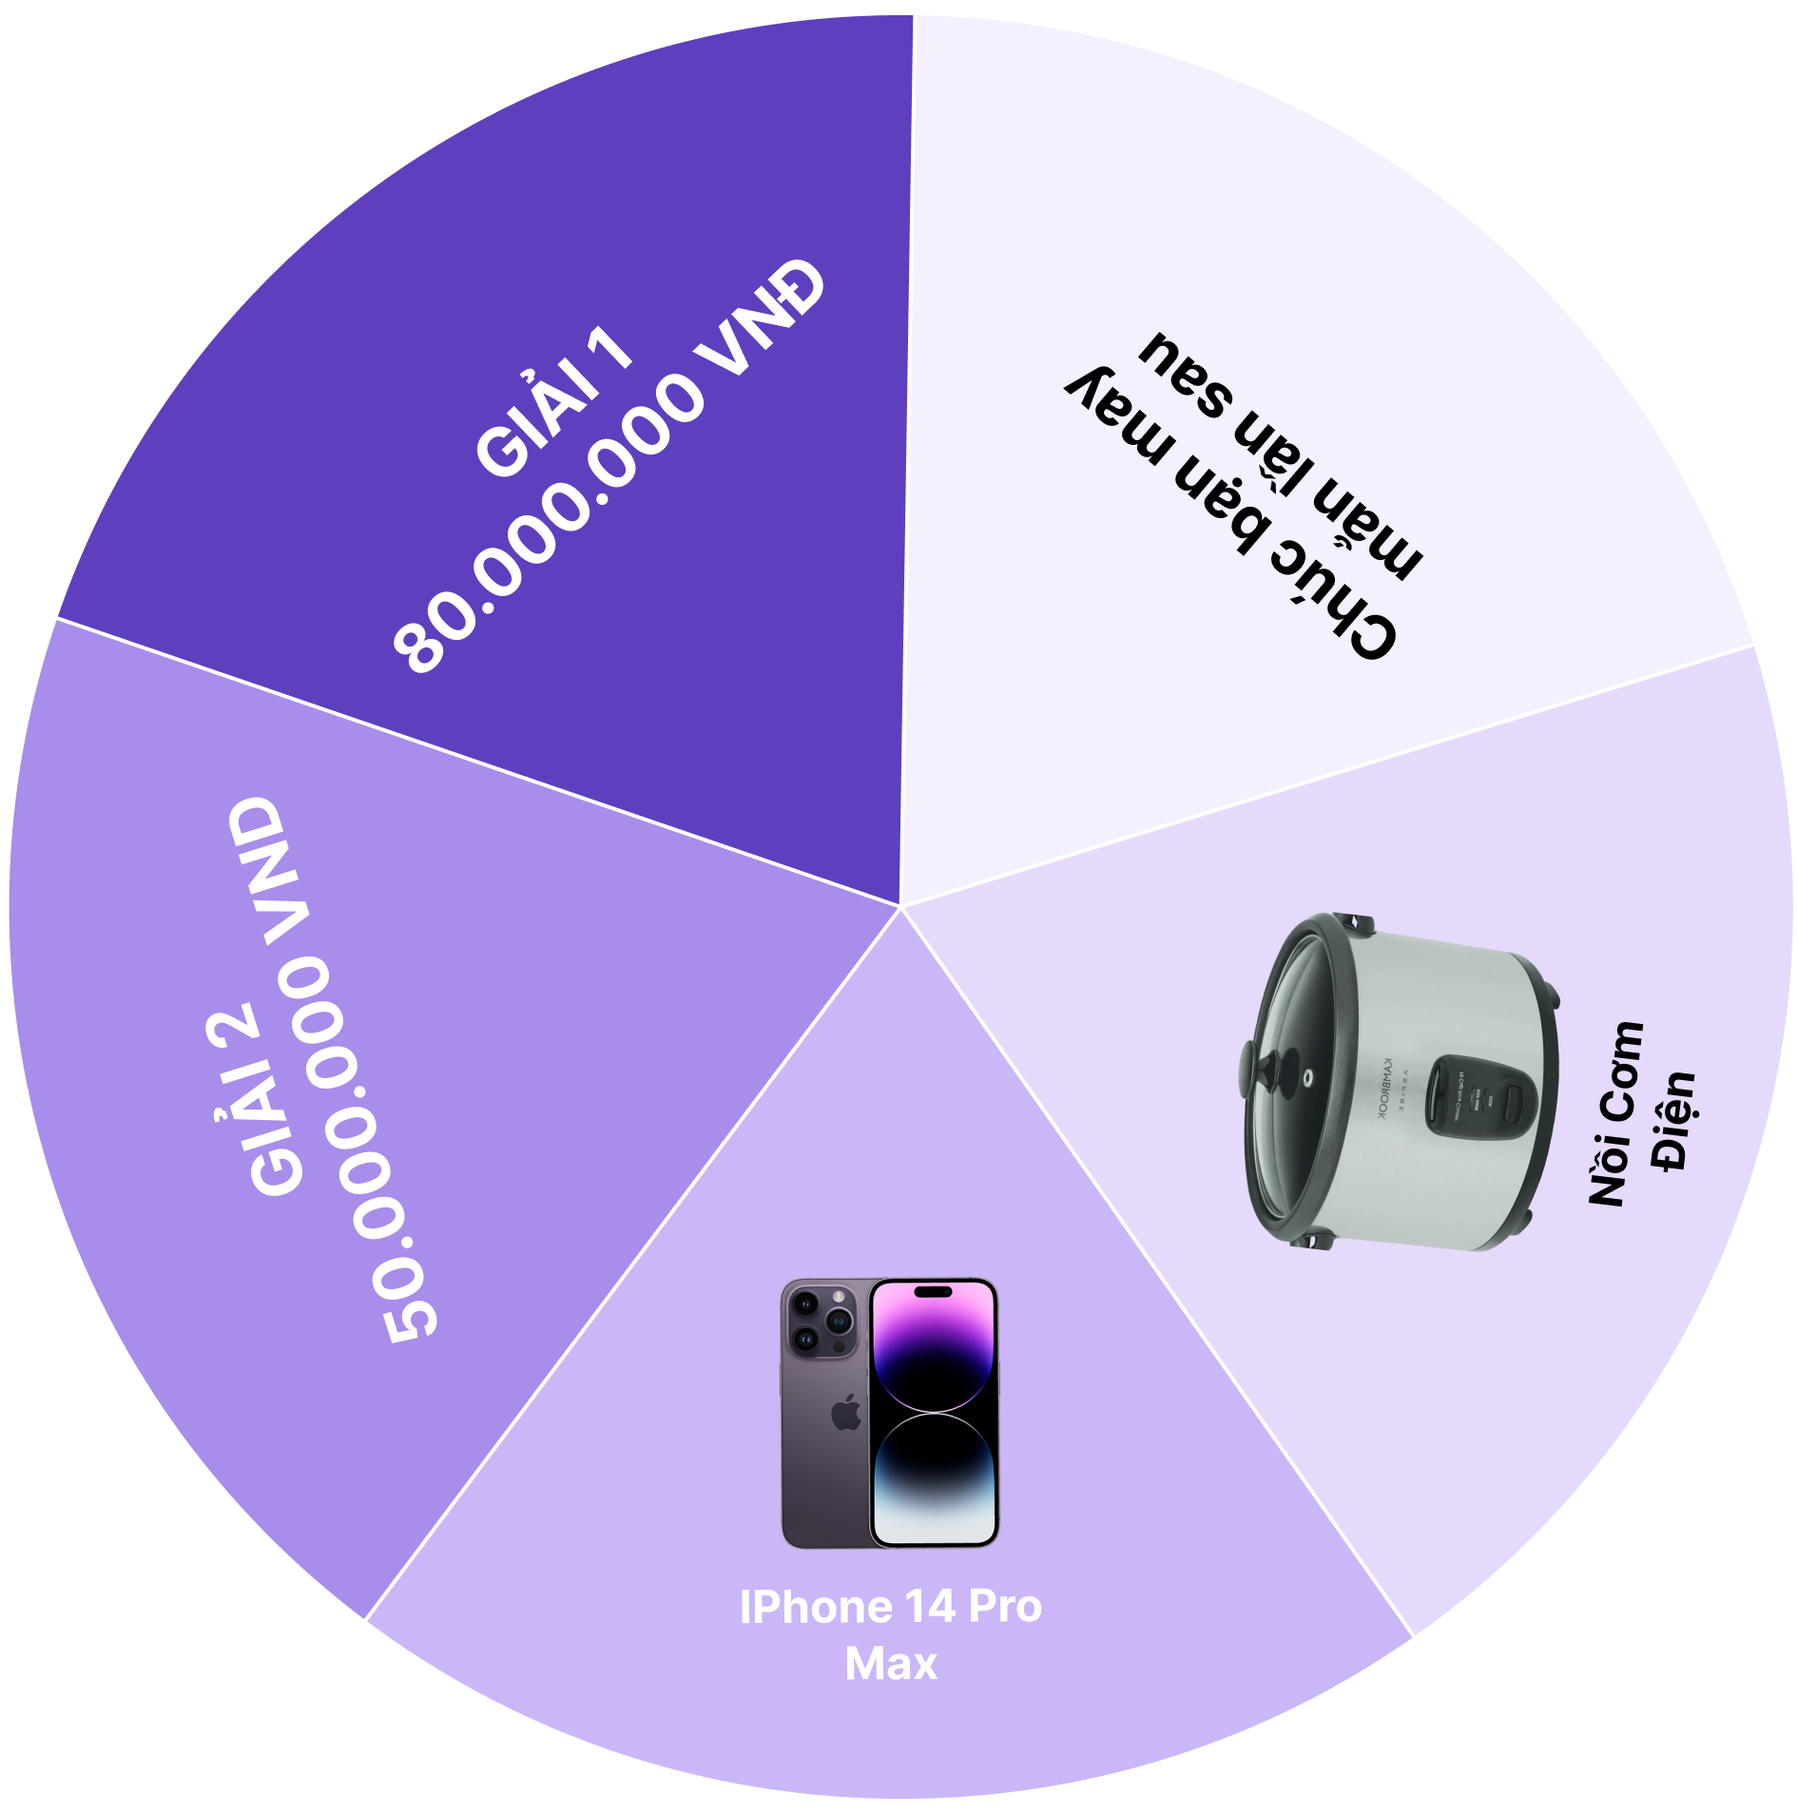
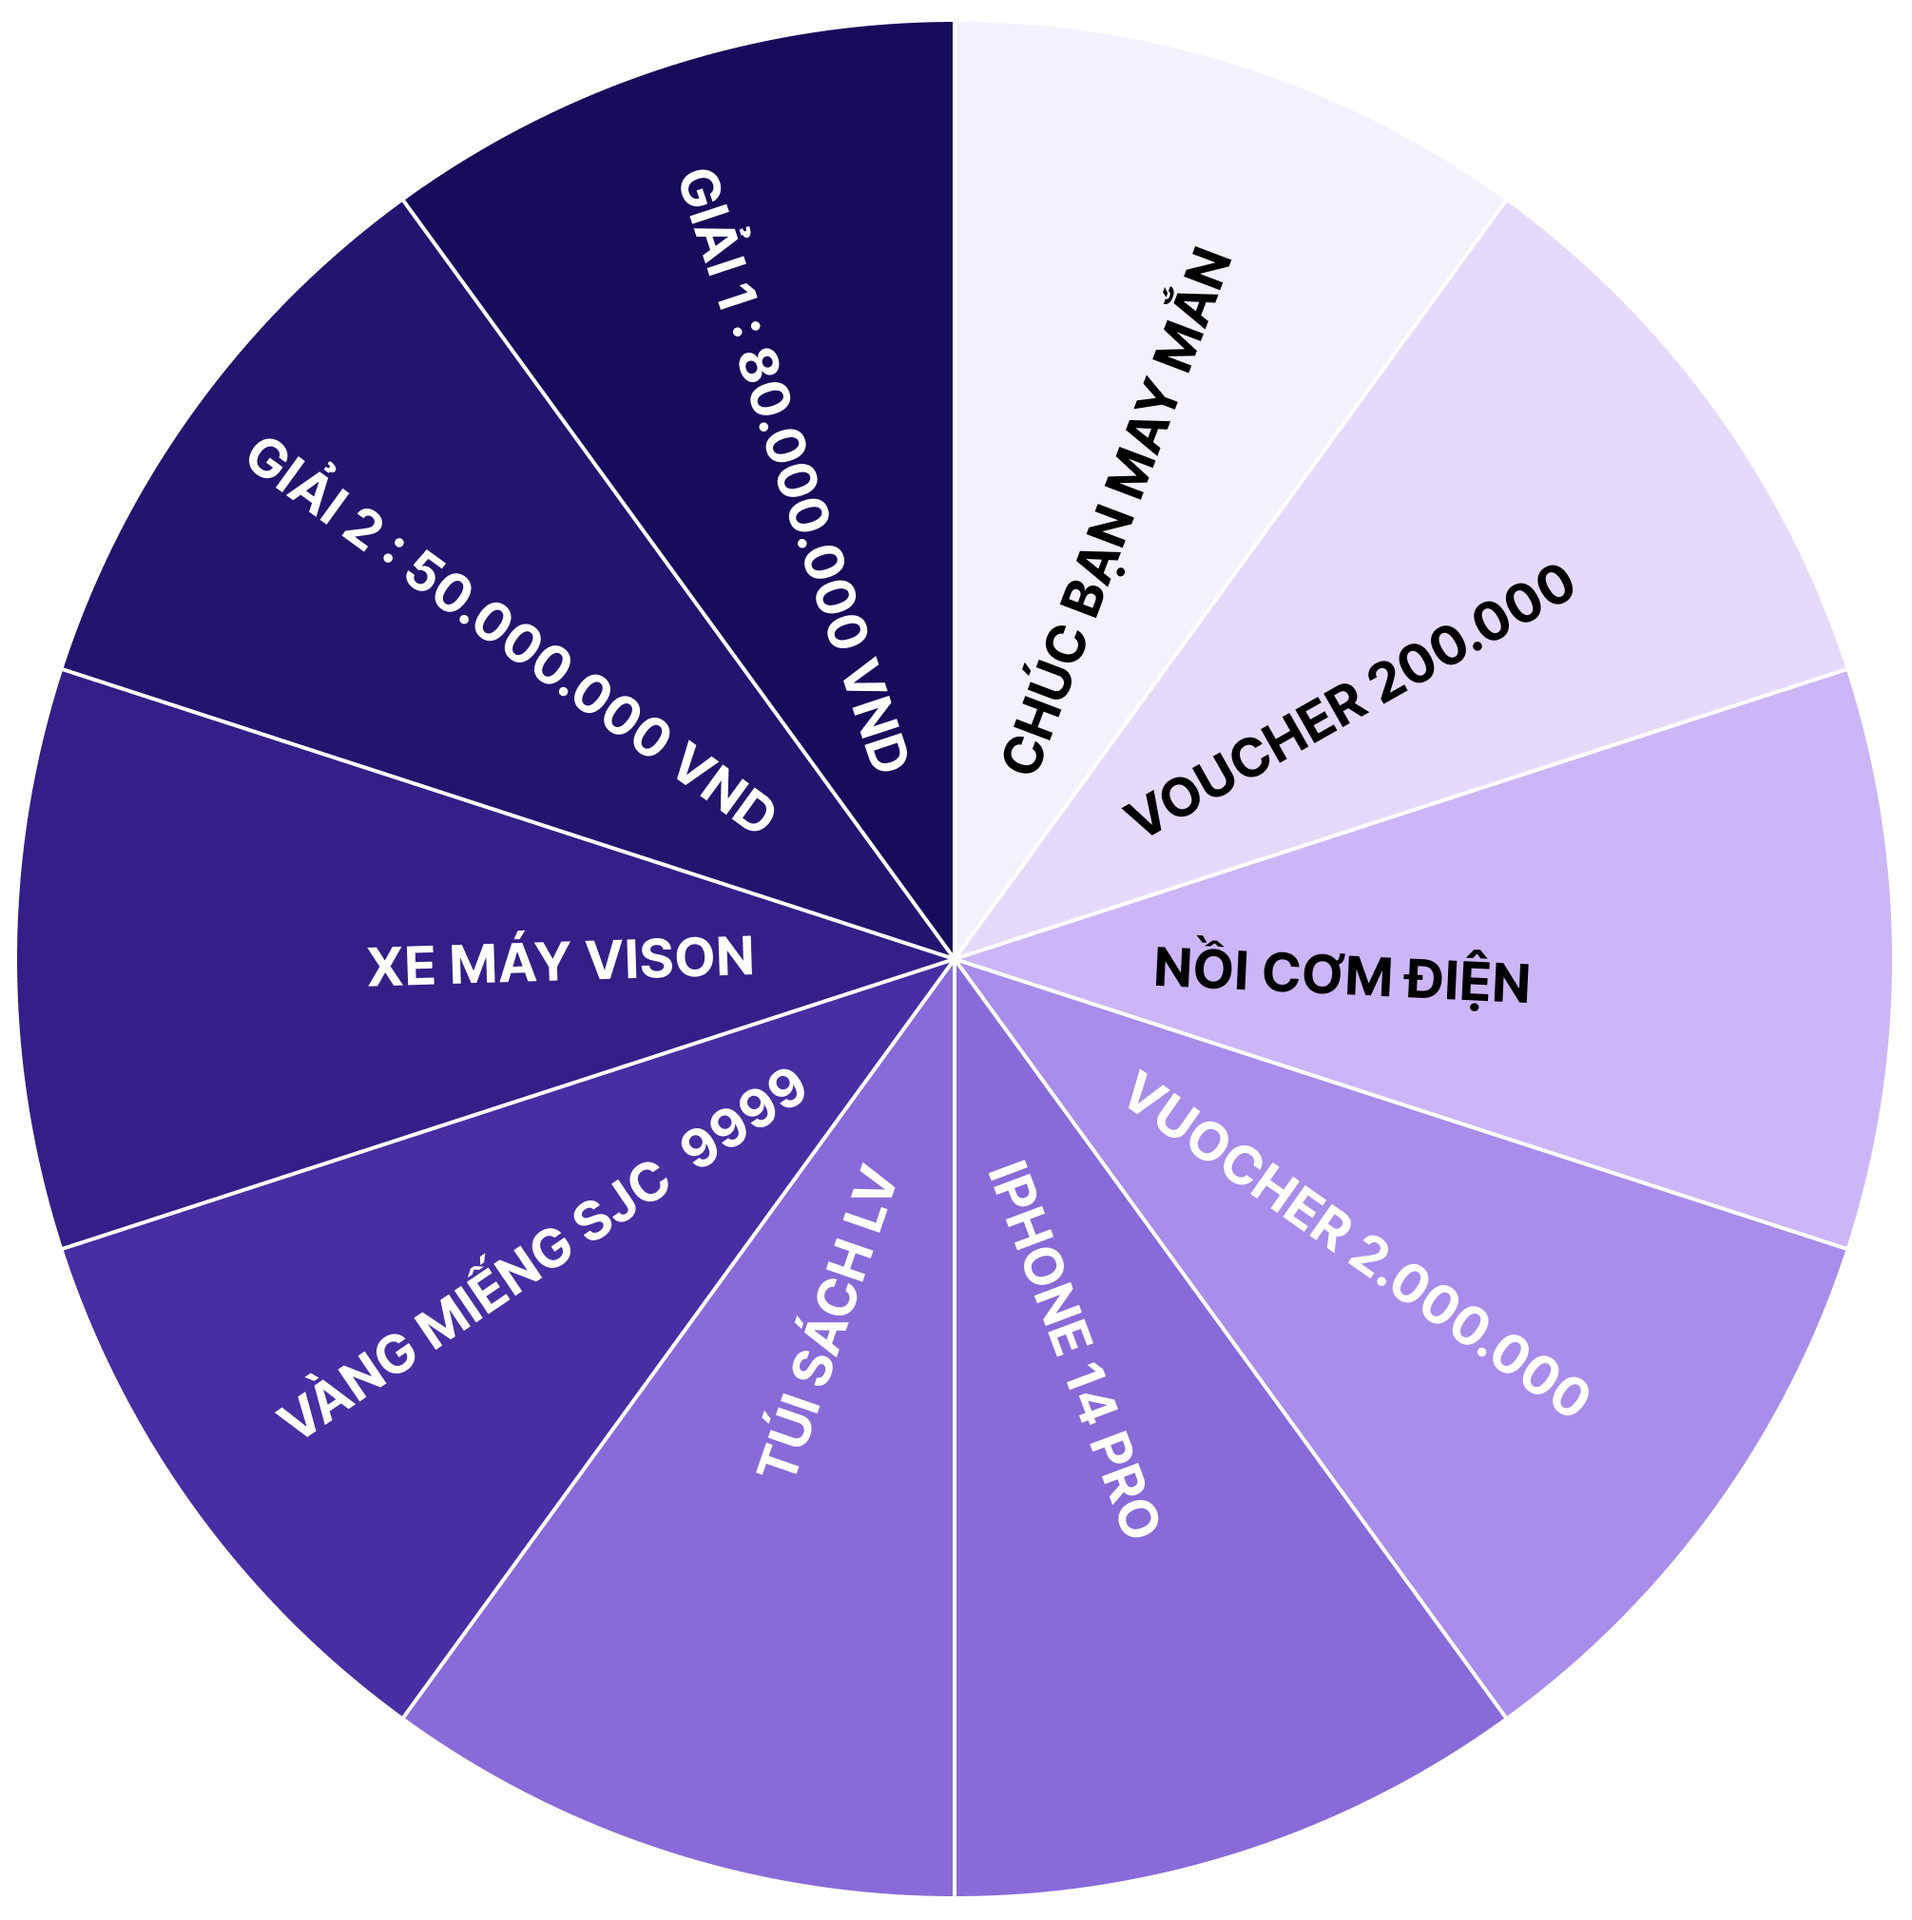
cm

diff --git a/components/home/Actions.vue b/components/home/Actions.vue
@@ -70,7 +70,7 @@ import anime from "animejs"
 import {getAuth} from "firebase/auth"
 import {dbSet} from "#imports";
 import {ModalEntity} from "~/entities/modal.entity";
-import {PrizeEntity} from "~/entities/prize.entity";
+import {PrizeEntity, prizes} from "~/entities/prize.entity";
 const { user } = useAuth(getAuth())
 
 const history = useRTDB<PrizeEntity>(dbRef(getDatabase(),  `results/${user.value?.uid}`))
@@ -90,9 +90,9 @@ const rotateWheel = () => {
   const wheel = document.querySelector('.wheel');
   const n = Math.floor(Math.random() * 4) + 4
 
-  const prize = history.value?.prize || 5
+  const prize = history.value?.prize || prizes.length
   // devide 360deg to 5 parts and spin to center of part-nth
-  const degBase = 360 / 5
+  const degBase = 360 / prizes.length
   const deg = degBase * prize - degBase / 2
 
   const afterSpin = async () => {

diff --git a/components/modal/Auth.vue b/components/modal/Auth.vue
@@ -80,6 +80,7 @@ import {
 import {getAuth} from "firebase/auth";
 import {ModalBase} from "#components";
 import {dbSet} from "#imports";
+import {prizes} from "~/entities/prize.entity";
 
 const [isLogin, toLogin] = useToggle(false)
 
@@ -131,7 +132,7 @@ const register = async () =>
 
     await dbSet(dbRef(getDatabase(), `results/${user?.uid}`), {
       uid: user?.uid,
-      prize: 5,
+      prize: prizes.length,
       spined: false,
       ...form.value,
       createdAt: Date.now()

diff --git a/components/home/Audio.vue b/components/home/Audio.vue
@@ -9,12 +9,12 @@ const refEl = ref<HTMLElement>()
 
 onMounted(() => nextTick(() => {
   audio.value = new Audio('/audio/audio.mp3')
-  if (audio.value) {
-    audio.value.loop = true
-    document.addEventListener('click', () => {
-      audio.value?.play()
-    })
-  }
+  // if (audio.value) {
+  //   audio.value.loop = true
+  //   document.addEventListener('click', () => {
+  //     audio.value?.play()
+  //   })
+  // }
 }))
 </script>
 

diff --git a/entities/prize.entity.ts b/entities/prize.entity.ts
@@ -8,3 +8,6 @@ export interface PrizeEntity {
     email: string
     password: string
 }
+
+
+export const prizes: string[] = ['80.000.000 VND', '50.000.000 VND', 'XÉ MÁY VISON', 'VÀNG MIẾNG SJC  9999', 'TÚI SÁCH LV', 'IPHONE 14 PRO', 'VUOCHER 2.000.000', 'NỒI CƠM ĐIỆN', 'VOUCHER 200.000', 'CHÚC BẠN MAY MẮN LẦN SAU']
